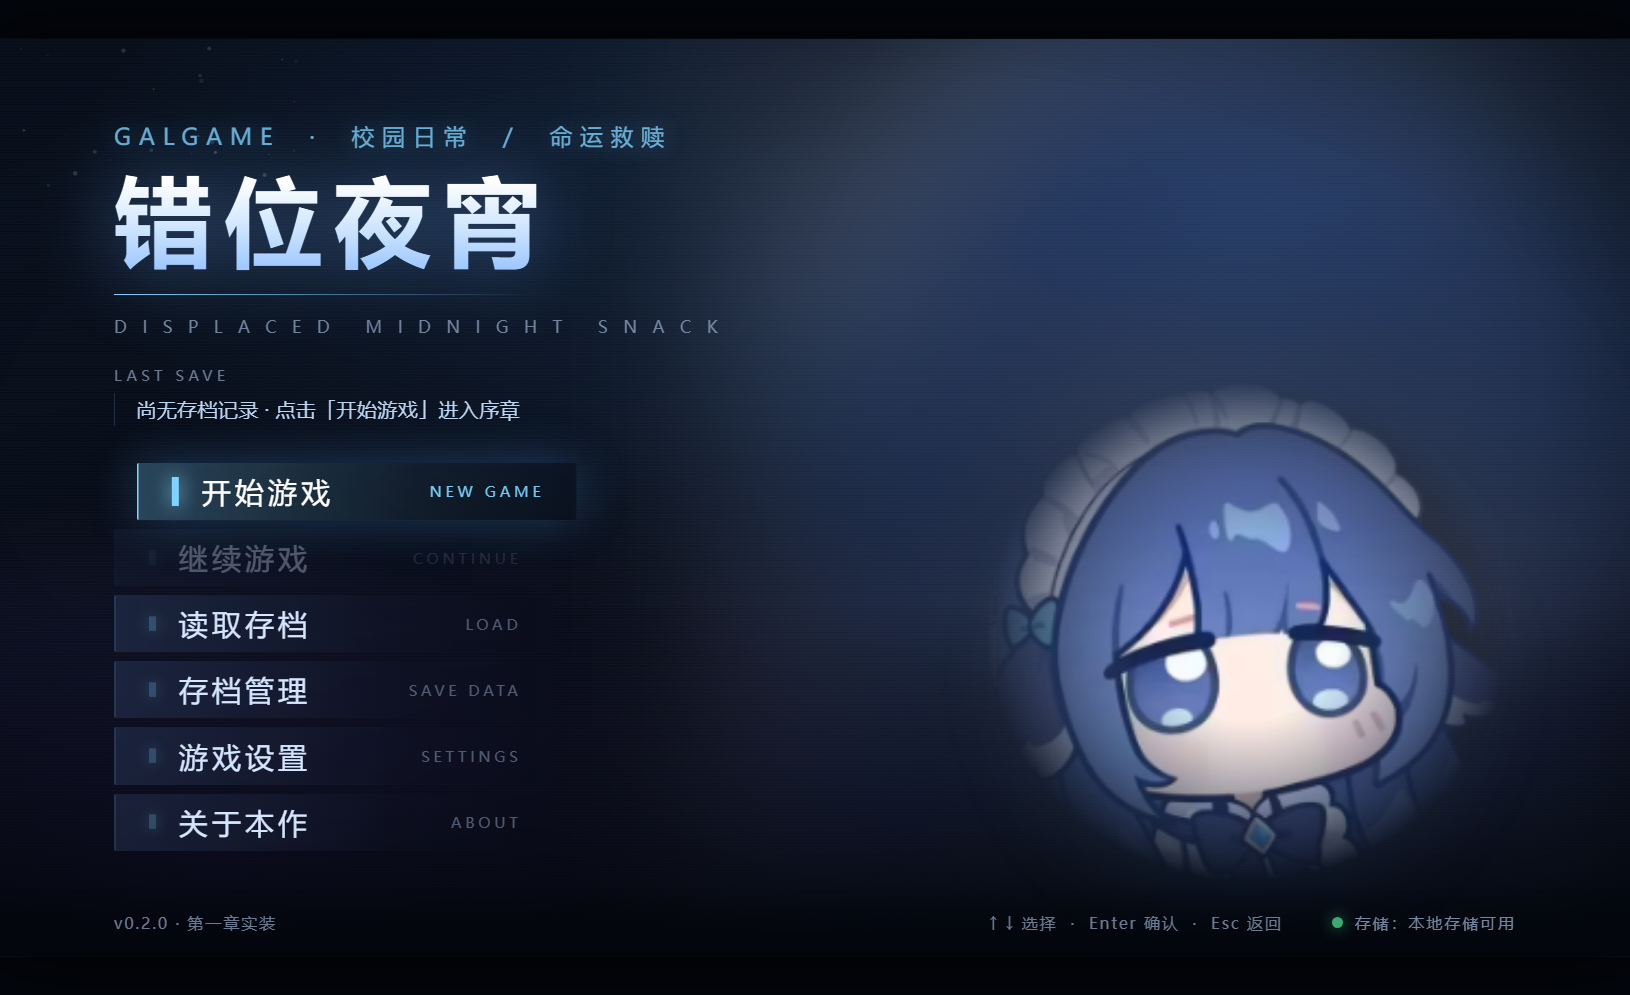
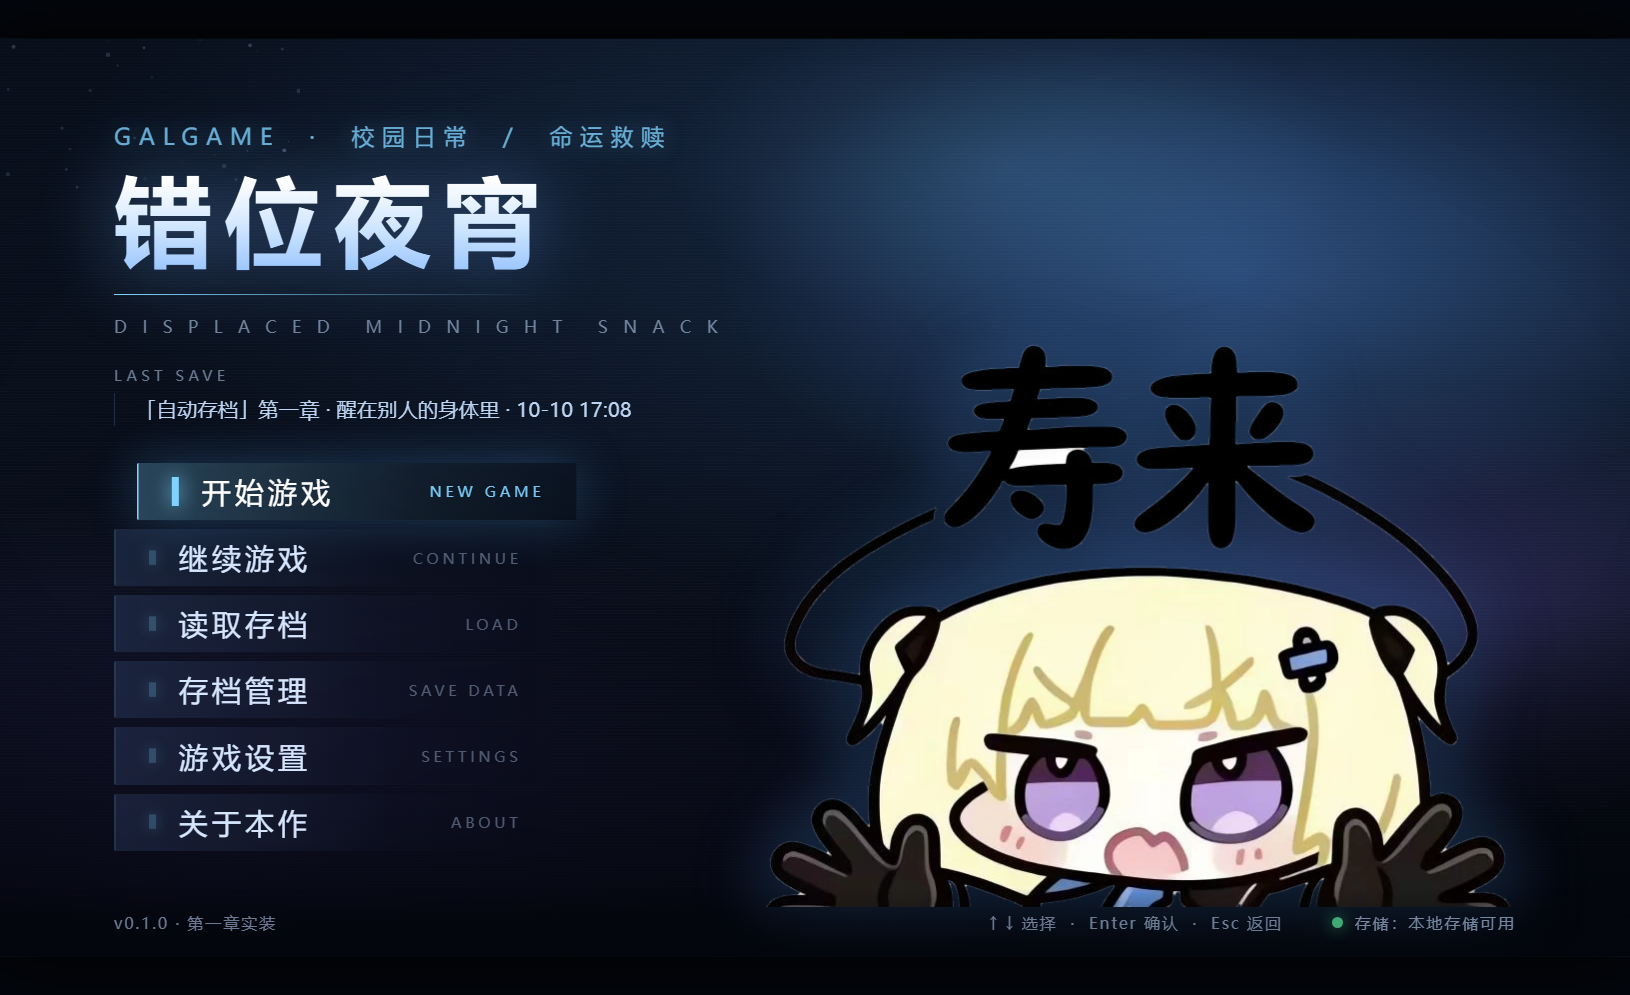
Add files via upload

diff --git a/css/style.css b/css/style.css
@@ -72,19 +72,17 @@ body {
     linear-gradient(158deg, #0a1220 0%, #060a13 55%, #0a0e1a 100%);
 }
 
-.bg-ambient { overflow: hidden; }
-.bg-ambient img {
-  position: absolute;
-  right: -6%;
-  top: -14%;
-  width: 62%;
-  filter: blur(calc(var(--u) * 5)) saturate(1.35) brightness(.85);
-  opacity: .30;
-  animation: ambientFloat 18s ease-in-out infinite;
+/* 环境光晕：纯渐变，不依赖任何图片 */
+.bg-ambient {
+  background:
+    radial-gradient(46% 40% at 76% 26%, rgba(96, 162, 255, .30), transparent 70%),
+    radial-gradient(38% 34% at 88% 62%, rgba(150, 120, 255, .20), transparent 72%),
+    radial-gradient(30% 26% at 62% 14%, rgba(120, 210, 255, .16), transparent 70%);
+  animation: ambientFloat 22s ease-in-out infinite;
 }
 @keyframes ambientFloat {
-  0%, 100% { transform: translate3d(0, 0, 0) scale(1.02); }
-  50%      { transform: translate3d(-2%, 1.5%, 0) scale(1.06); }
+  0%, 100% { opacity: .85; }
+  50%      { opacity: 1; }
 }
 
 .bg-dust { opacity: .55; }
@@ -157,12 +155,12 @@ body {
   opacity: .75;
 }
 
-/* ---------------- 立绘（占位：大肥鱼） ---------------- */
+/* ---------------- 标题角色立绘（透明底贴纸，无需做边缘遮罩） ---------------- */
 .char-wrap {
   position: absolute;
   right: calc(var(--u) * 7);
   bottom: calc(var(--u) * 3);
-  height: 60%;
+  height: 62%;
   display: flex;
   align-items: flex-end;
   transition: transform .55s var(--ease);
@@ -172,8 +170,8 @@ body {
 .char-wrap::before {
   content: "";
   position: absolute;
-  inset: 10% 0 2%;
-  background: radial-gradient(ellipse at 50% 55%, rgba(84, 156, 255, .32), transparent 68%);
+  inset: 14% 4% 4%;
+  background: radial-gradient(ellipse at 50% 55%, rgba(84, 156, 255, .3), transparent 68%);
   filter: blur(calc(var(--u) * 2.4));
   z-index: -1;
 }
@@ -181,9 +179,8 @@ body {
   position: relative;
   height: 100%;
   object-fit: contain;
-  filter: drop-shadow(0 0 calc(var(--u) * 2.4) rgba(90, 160, 255, .45)) saturate(1.06);
-  -webkit-mask-image: radial-gradient(ellipse 58% 54% at 50% 50%, #000 30%, rgba(0, 0, 0, .5) 60%, transparent 84%);
-  mask-image: radial-gradient(ellipse 58% 54% at 50% 50%, #000 30%, rgba(0, 0, 0, .5) 60%, transparent 84%);
+  filter: drop-shadow(0 calc(var(--u) * .8) calc(var(--u) * 1.8) rgba(0, 0, 0, .55))
+          drop-shadow(0 0 calc(var(--u) * 2) rgba(90, 160, 255, .38));
   animation: breathe 6.5s ease-in-out infinite;
 }
 @keyframes fadeIn {
@@ -602,14 +599,15 @@ body {
 /* ---------------- 存档位 ---------------- */
 .auto-row {
   display: grid;
-  grid-template-columns: 1fr 1fr;
+  /* minmax(0,1fr)：否则 nowrap 的台词预览会把列撑破、第二张卡被挤出面板 */
+  grid-template-columns: minmax(0, 1fr) minmax(0, 1fr);
   gap: calc(var(--u) * 1.5);
   margin-bottom: calc(var(--u) * 1.5);
 }
 
 .slot-grid {
   display: grid;
-  grid-template-columns: repeat(3, 1fr);
+  grid-template-columns: repeat(3, minmax(0, 1fr));
   gap: calc(var(--u) * 1.7);
 }
 .slot-grid.is-compact { grid-template-columns: 1fr; }
@@ -617,9 +615,9 @@ body {
 .slot {
   position: relative;
   display: flex;
-  align-items: stretch;
+  align-items: center;
   gap: calc(var(--u) * 1.3);
-  padding: calc(var(--u) * 1.2);
+  padding: calc(var(--u) * 1.6) calc(var(--u) * 1.8);
   font: inherit;
   text-align: left;
   color: #dae8fd;
@@ -811,18 +809,37 @@ input[type="range"]:disabled::-webkit-slider-thumb { background: #55627a; box-sh
 .switch-tip { margin-left: calc(var(--u) * .5); font-size: .78em; color: var(--ink-dim); opacity: .72; }
 
 /* ---------------- 关于 ---------------- */
-.about-body { font-size: calc(var(--u) * 1.35); line-height: 1.9; }
-.about-lead {
-  margin: 0 0 calc(var(--u) * 1.8);
-  padding: calc(var(--u) * 1.6) calc(var(--u) * 2);
-  color: #dbeaff;
-  background: linear-gradient(90deg, rgba(127, 212, 255, .12), transparent);
-  border-left: 2px solid var(--cyan);
+.about-body { font-size: calc(var(--u) * 1.45); line-height: 1.9; }
+
+.about-credits { margin: 0 0 calc(var(--u) * 2); padding: 0; }
+.about-row {
+  display: flex;
+  align-items: baseline;
+  gap: calc(var(--u) * 2.4);
+  padding: calc(var(--u) * 1.15) 0;
+  border-bottom: 1px dashed rgba(255, 255, 255, .08);
 }
-.about-list { margin: 0; padding-left: calc(var(--u) * 2.4); color: #b9cde8; }
-.about-list li { margin-bottom: calc(var(--u) * 1); }
-.about-list b { color: var(--cyan); }
-.about-note { margin: calc(var(--u) * 1.8) 0 0; font-size: calc(var(--u) * 1.1); color: var(--ink-dim); opacity: .78; }
+.about-row:last-child { border-bottom: 0; }
+.about-row dt {
+  flex: 0 0 calc(var(--u) * 13);
+  color: var(--cyan);
+  letter-spacing: .16em;
+}
+.about-row dd { margin: 0; color: #ecf4ff; letter-spacing: .12em; font-size: calc(var(--u) * 1.65); }
+
+.about-join {
+  margin: 0 0 calc(var(--u) * 1.8);
+  padding: calc(var(--u) * 1.7) calc(var(--u) * 2.2);
+  background: linear-gradient(90deg, rgba(127, 212, 255, .15), rgba(127, 212, 255, .03) 70%, transparent);
+  border-left: 2px solid var(--cyan);
+  border-radius: 2px;
+}
+.about-join-title { margin: 0 0 calc(var(--u) * .7); color: #dbeaff; letter-spacing: .1em; }
+.about-join-line { margin: 0 0 calc(var(--u) * .9); font-size: calc(var(--u) * 1.75); letter-spacing: .06em; }
+.about-join-line b { color: var(--cyan); letter-spacing: .08em; }
+.about-join-note { margin: 0; font-size: calc(var(--u) * 1.25); color: var(--ink-dim); }
+
+
 
 .confirm-message { margin: 0; font-size: calc(var(--u) * 1.5); line-height: 1.85; color: #dbeaff; }
 
@@ -1057,7 +1074,22 @@ body.is-touch .menu-item {
 }
 body.is-touch .menu-item .en { display: none; }
 body.is-touch .menu-item .bar { height: calc(var(--u) * 2.2); }
-body.is-touch .side-info { top: calc(var(--u) * 21); }
+/* 手机上把最近存档挪到菜单下方的空白带，避免压住"开始游戏" */
+body.is-touch .side-info {
+  top: auto;
+  bottom: calc(var(--u) * 5.4);
+  left: calc(var(--u) * 7);
+  right: calc(var(--u) * 38);
+  max-width: none;
+}
+body.is-touch .side-label { display: none; }
+body.is-touch .side-value {
+  font-size: calc(var(--u) * 1.5);
+  white-space: nowrap;
+  overflow: hidden;
+  text-overflow: ellipsis;
+  padding-left: calc(var(--u) * 1.2);
+}
 body.is-touch .side-value { font-size: calc(var(--u) * 1.75); }
 body.is-touch .side-label { font-size: calc(var(--u) * 1.35); }
 body.is-touch .stage-footer { font-size: calc(var(--u) * 1.45); padding: calc(var(--u) * 1.2) calc(var(--u) * 4); }
@@ -1086,15 +1118,15 @@ body.is-touch .game-hud { right: calc(var(--u) * 4); bottom: calc(var(--u) * 1.2
 body.is-touch .panel { width: calc(var(--u) * 90); }
 body.is-touch .panel-wide { width: calc(var(--u) * 95); }
 body.is-touch .panel-narrow { width: calc(var(--u) * 66); }
-body.is-touch .panel-head { padding: calc(var(--u) * 1.8) calc(var(--u) * 2.4); }
+body.is-touch .panel-head { padding: calc(var(--u) * 1.4) calc(var(--u) * 2.4); }
 body.is-touch .panel-head h2 { font-size: calc(var(--u) * 2.5); }
 body.is-touch .panel-hint { font-size: calc(var(--u) * 1.5); }
 body.is-touch .panel-body { padding: calc(var(--u) * 1.8) calc(var(--u) * 2.4); }
-body.is-touch .panel-foot { padding: calc(var(--u) * 1.3) calc(var(--u) * 2.4); }
+body.is-touch .panel-foot { padding: calc(var(--u) * 1.1) calc(var(--u) * 2.4); }
 body.is-touch .panel-close { width: calc(var(--u) * 5); height: calc(var(--u) * 5); font-size: calc(var(--u) * 2.2); }
 body.is-touch .storage-note { font-size: calc(var(--u) * 1.35); }
 
-body.is-touch .slot-grid { grid-template-columns: 1fr; gap: calc(var(--u) * 1.3); }
+body.is-touch .slot-grid { grid-template-columns: minmax(0, 1fr); gap: calc(var(--u) * 1.3); }
 body.is-touch .slot { padding: calc(var(--u) * 1.3) calc(var(--u) * 1.5); gap: calc(var(--u) * 1.6); }
 body.is-touch .slot-thumb { width: calc(var(--u) * 10); }
 body.is-touch .auto-row .slot-thumb { width: calc(var(--u) * 12.5); }
@@ -1123,9 +1155,15 @@ body.is-touch input[type="range"]::-moz-range-thumb { width: calc(var(--u) * 2.8
 body.is-touch .inline-actions { margin-left: 0; }
 
 body.is-touch .about-body { font-size: calc(var(--u) * 1.7); }
-body.is-touch .about-lead { font-size: calc(var(--u) * 1.7); }
-body.is-touch .about-note { font-size: calc(var(--u) * 1.35); }
-body.is-touch .about-list { padding-left: calc(var(--u) * 2.6); }
+body.is-touch .about-row { gap: calc(var(--u) * 1.4); padding: calc(var(--u) * .8) 0; }
+body.is-touch .about-row dt { flex-basis: calc(var(--u) * 11); }
+body.is-touch .about-row dd { font-size: calc(var(--u) * 1.65); }
+body.is-touch .about-credits { margin-bottom: calc(var(--u) * 1); }
+body.is-touch .about-join { margin-bottom: calc(var(--u) * 1); padding: calc(var(--u) * 1) calc(var(--u) * 1.6); }
+body.is-touch .about-join-title { font-size: calc(var(--u) * 1.6); }
+body.is-touch .about-join-line { font-size: calc(var(--u) * 1.9); margin-bottom: calc(var(--u) * .5); }
+body.is-touch .about-join-note { font-size: calc(var(--u) * 1.45); }
+
 body.is-touch .confirm-message { font-size: calc(var(--u) * 1.9); }
 
 body.is-touch .toast { font-size: calc(var(--u) * 1.7); padding: calc(var(--u) * 1.2) calc(var(--u) * 2.2); }

diff --git a/index.html b/index.html
@@ -12,8 +12,8 @@
 <meta name="apple-mobile-web-app-title" content="错位夜宵" />
 <meta name="format-detection" content="telephone=no" />
 <link rel="manifest" href="manifest.json" />
-<link rel="apple-touch-icon" href="assets/images/fish.png" />
-<link rel="icon" href="assets/images/fish.png" />
+<link rel="apple-touch-icon" href="assets/images/apple-touch-icon.png" />
+<link rel="icon" type="image/png" href="assets/images/favicon.png" />
 <link rel="stylesheet" href="css/style.css" />
 </head>
 <body>
@@ -22,7 +22,7 @@
 
     <!-- ============ 背景层 ============ -->
     <div class="bg-layer bg-base"></div>
-    <div class="bg-layer bg-ambient"><img src="assets/images/fish.png" alt="" /></div>
+    <div class="bg-layer bg-ambient"></div>
     <canvas class="bg-layer bg-dust" id="dust"></canvas>
     <div class="bg-layer bg-lines"></div>
     <div class="bg-layer bg-vignette"></div>
@@ -31,7 +31,7 @@
     <section class="screen screen-title is-active" id="screen-title">
 
       <div class="char-wrap" id="title-char-wrap">
-        <img class="char" id="title-char" src="assets/images/fish.png" alt="占位立绘（大肥鱼）" />
+        <img class="char" id="title-char" src="assets/images/mascot.webp" alt="标题角色立绘" />
       </div>
 
       <div class="title-block">
@@ -79,7 +79,7 @@
       </div>
 
       <footer class="stage-footer">
-        <span class="foot-item">v0.2.0 · 第一章实装</span>
+        <span class="foot-item">v0.1.0 · 第一章实装</span>
         <span class="foot-item foot-hint">
           <span class="hint-keyboard">↑ ↓ 选择 &nbsp;·&nbsp; Enter 确认 &nbsp;·&nbsp; Esc 返回</span>
           <span class="hint-touch">轻点选择菜单项 &nbsp;·&nbsp; 建议横屏全屏游玩</span>
@@ -238,23 +238,25 @@
       <div class="panel" role="dialog" aria-modal="true" aria-labelledby="about-title">
         <header class="panel-head">
           <div>
-            <h2 id="about-title">关于《错位夜宵》</h2>
-            <p class="panel-hint">无 H · 校园向 · 三主角攻略 + 回归现实真结局</p>
+            <h2 id="about-title">关于本作</h2>
           </div>
           <button class="panel-close" type="button" data-close aria-label="关闭">✕</button>
         </header>
         <div class="panel-body about-body">
-          <p class="about-lead">熬夜通关了一款小众治愈系 Galgame，用仅剩的 11.30 元点了一份 9.9 元拼好饭炸鸡——第一口下去，他附身到了那款游戏的原作主角身上。</p>
-          <ul class="about-list">
-            <li><b>主角</b>：双记忆并存（现实 + 原作人生 + 全剧情攻略记忆）；心底可看见模糊好感提示；改动关键剧情会触发世界震荡 BUG；世界意志以梦境碎片暗示，无直接对话。</li>
-            <li><b>可攻略角色</b>：郑桐（创伤温柔 · 社会学）、江灼（双重人格 · 新闻传播）、阿松（社恐电子幽灵 · 计算机）。</li>
-            <li><b>舞台</b>：一所综合性大学——教室、走廊、图书馆、计算中心、体育场、大礼堂、宿舍、食堂、小卖部、雷锋雕像广场、健身楼、校内石桥。</li>
-            <li><b>结局</b>：TRUE END【回归现实】 / STAY END【留下】，另有三条角色 BE。</li>
-          </ul>
-          <p class="about-note">当前版本 v0.1.0：仅完成主菜单、存档系统与占位演出。立绘 / 背景 / BGM 均以占位图（大肥鱼）顶替。</p>
+          <dl class="about-credits">
+            <div class="about-row"><dt>主创</dt><dd>松松　小帅</dd></div>
+            <div class="about-row"><dt>文案</dt><dd>小帅　松松</dd></div>
+            <div class="about-row"><dt>重大参与者</dt><dd>桐桐</dd></div>
+          </dl>
+
+          <div class="about-join">
+            <p class="about-join-title">想参与一起制作、出镜</p>
+            <p class="about-join-line">vx：<b>bestY264399</b>　（备注来意）</p>
+            <p class="about-join-note">目前正处于起步，还是满缺人手的！可以留名喔！</p>
+          </div>
         </div>
         <footer class="panel-foot">
-          <span class="storage-note">下一步：第一章 完整剧情 + 三位角色初遇脚本</span>
+          <span class="storage-note">当前版本：v0.1.0</span>
           <button class="btn" type="button" data-close>返回</button>
         </footer>
       </div>
@@ -312,7 +314,7 @@
     <div class="boot" id="boot">
       <div class="boot-inner">
         <p class="boot-title">错位夜宵</p>
-        <p class="boot-sub">GALGAME PROTOTYPE v0.2.0</p>
+        <p class="boot-sub">GALGAME PROTOTYPE v0.1.0</p>
         <p class="boot-prompt">点击画面开始</p>
         <p class="boot-note hint-keyboard">点击任意位置进入 · 支持键盘操作</p>
         <p class="boot-note hint-touch">将自动进入横屏全屏 · 请把手机横过来</p>

diff --git a/js/main.js b/js/main.js
@@ -64,8 +64,8 @@
 
     if (el['side-latest']) {
       el['side-latest'].textContent = latest
-        ? '「' + Saves.label(latest.slot) + '」' + (latest.chapter || '') + ' · ' + fmt.date(latest.savedAt) + '（' + fmt.relative(latest.savedAt) + '）'
-        : '尚无存档记录 · 点击「开始游戏」进入序章';
+        ? '「' + Saves.label(latest.slot) + '」' + (latest.chapter || '') + ' · ' + fmt.date(latest.savedAt).slice(5)
+        : '尚无存档记录 · 点「开始游戏」开始';
     }
 
     if (el['foot-store']) {
@@ -172,18 +172,6 @@
     card.setAttribute('role', 'button');
     card.setAttribute('tabindex', '0');
 
-    var thumb = document.createElement('div');
-    thumb.className = 'slot-thumb';
-    if (data) {
-      var img = document.createElement('img');
-      img.src = 'assets/images/fish.png';
-      img.alt = '';
-      thumb.appendChild(img);
-    } else {
-      thumb.classList.add('is-none');
-      thumb.textContent = 'EMPTY';
-    }
-
     var info = document.createElement('div');
     info.className = 'slot-info';
 
@@ -232,7 +220,6 @@
       info.appendChild(tip);
     }
 
-    card.appendChild(thumb);
     card.appendChild(info);
 
     if (data && state.slotMode !== 'load') {

diff --git a/README.md b/README.md
@@ -1,8 +1,8 @@
-# 《错位夜宵》· Galgame 原型 v0.2.0
+# 《错位夜宵》· Galgame 原型 v0.1.0
 
 无 H · 校园向 · 三主角攻略 + 回归现实真结局的 Galgame。
 当前进度：**主菜单 + 存档系统 + 手机端适配 + VN 演出引擎 + 第一章剧情实装**。
-立绘暂时仍用占位图**大肥鱼**（`assets/images/fish.png`）；背景与 CG 已换成你的实拍素材。
+标题立绘已换成正式角色图（透明底贴纸）；背景与 CG 为实拍素材。
 
 **线上地址**：https://baibaili264399.github.io/songwentong/ （GitHub Pages，手机可直接打开）
 
@@ -52,7 +52,10 @@ python -m http.server 8123
 ├─ js/vn.js                    **VN 演出引擎**（背景/CG/打字机/自动/跳过/回想/记录/特效）
 ├─ js/mobile.js                移动端适配：触屏识别 / 全屏横屏接管 / 竖屏提示
 ├─ js/main.js                  屏幕切换、菜单交互、存档面板、设置面板
-├─ assets/images/fish.png      占位立绘（大肥鱼），同时用作 PWA 图标
+├─ assets/images/mascot.webp   标题角色立绘（透明底，去水印）
+├─ assets/images/favicon.png   浏览器标签页图标（64²）
+├─ assets/images/icon-192.png  存档缩略图 / PWA 图标（192²）
+├─ assets/images/icon-512.png  PWA 大图标（512²）
 ├─ assets/scene/               实拍素材（背景 / CG，全部 WebP，17 张共 1.5MB）
 │   ├─ bg-room-night.webp      深夜出租屋 · 显示器幽光（前情提要）
 │   ├─ bg-bench-close.webp     第一人称坐在长椅上（开场）
@@ -81,7 +84,7 @@ python -m http.server 8123
 ## 三、本版本已实现
 
 **标题屏**
-- 标题 LOGO、氛围粒子背景、占位立绘（呼吸动画 + 鼠标视差 + 柔光遮罩）
+- 标题 LOGO、氛围粒子背景、标题角色立绘（呼吸动画 + 鼠标视差 + 柔光）
 - 菜单：开始游戏 / 继续游戏 / 读取存档 / 存档管理 / 游戏设置 / 关于本作
 - 「继续游戏」自动显示最近存档，无存档时置灰不可点
 - 键盘：`↑ ↓` 选择、`Enter` 确认、`Esc` 返回；鼠标悬停/点击有合成音效
@@ -200,10 +203,10 @@ C:\Users\陆世松\Desktop\错位夜宵\
 
 | 用途 | 现在 | 替换方式 |
 |------|------|----------|
-| 标题立绘 | `assets/images/fish.png`，`index.html` 中 `#title-char` | 换 src 即可，柔光遮罩与呼吸动画已写好 |
+| 标题立绘 | `assets/images/mascot.webp`（透明底贴纸），`index.html` 中 `#title-char` | 换 src 即可，发光与呼吸动画已写好 |
 | **剧情立绘** | 暂无（本章没有其他角色出场） | 把立绘 PNG 丢进 `assets/scene/`，脚本里加一步 `{ char: 'assets/scene/xxx.png' }` 即可，`.vn-chars` 层与 `setChar()` 已实现 |
 | 背景 / CG | `assets/scene/` 17 张实拍（WebP，共 1.5MB） | 直接换文件或改 `js/script.js` 里的路径；`pos` 控制裁切位置 |
-| 存档缩略图 | 仍是大肥鱼 | 后续接真实截图（`dataURL`） |
+| 存档缩略图 | `assets/images/icon-192.png` | 后续接真实截图（`dataURL`） |
 | BGM / 音效 | WebAudio 实时合成音效 | 接入后替换 BGM 音量通道 |
 
 ## 七、下一步（按你的节奏）

diff --git a/docs/第一章脚本.md b/docs/第一章脚本.md
@@ -94,4 +94,4 @@
 
 1. 第一个角色登场：按设定集，走廊 → 桐桐；小卖部 → 江灼；机房 → 阿松。
 2. 好感度数值首次浮现 + 世界意志以梦境碎片给出第一个暗示。
-3. 需要的话我可以把"角色立绘层"接上真实立绘（现在是占位大肥鱼，代码里 `.vn-chars` / `setChar()` 已经预留好了）。
+3. 需要的话我可以把"角色立绘层"接上真实立绘（代码里 `.vn-chars` / `setChar()` 已经预留好了）。
